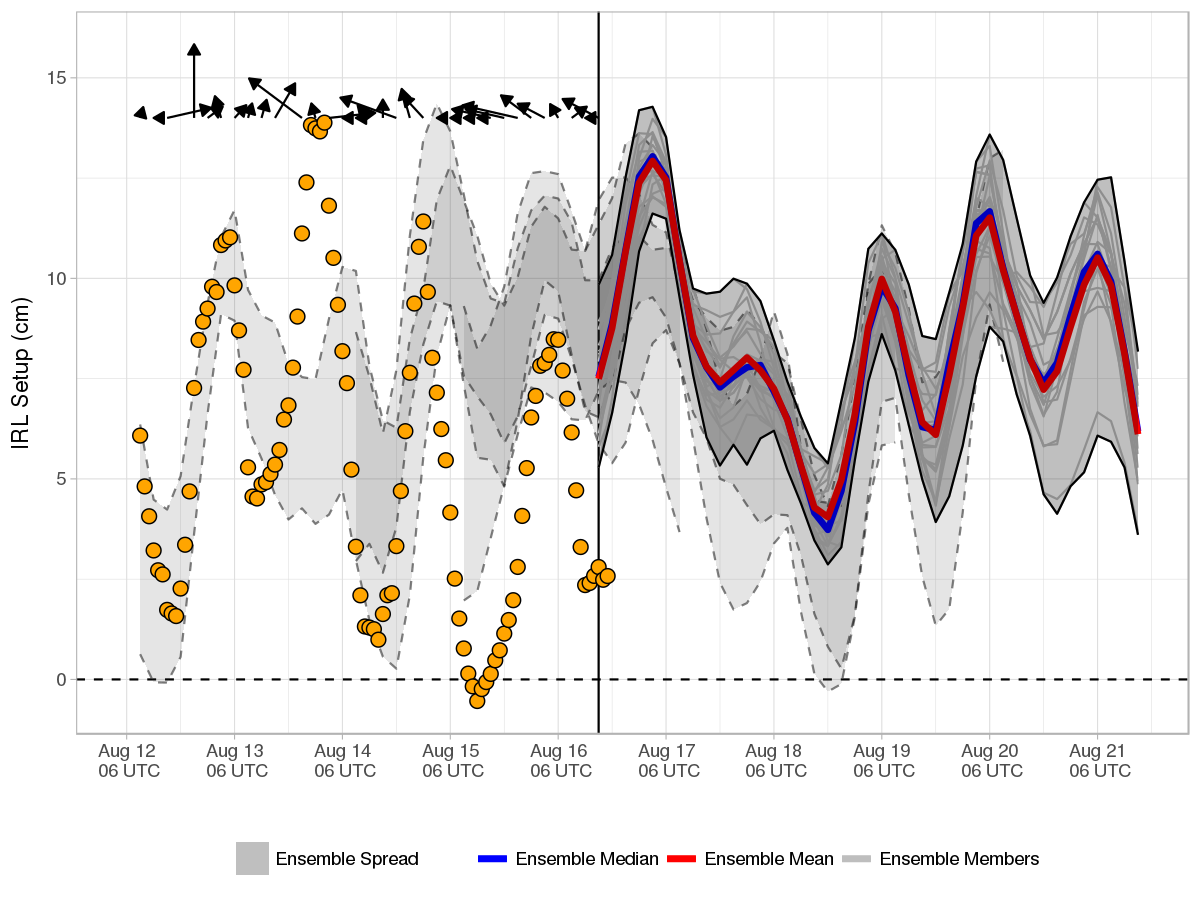
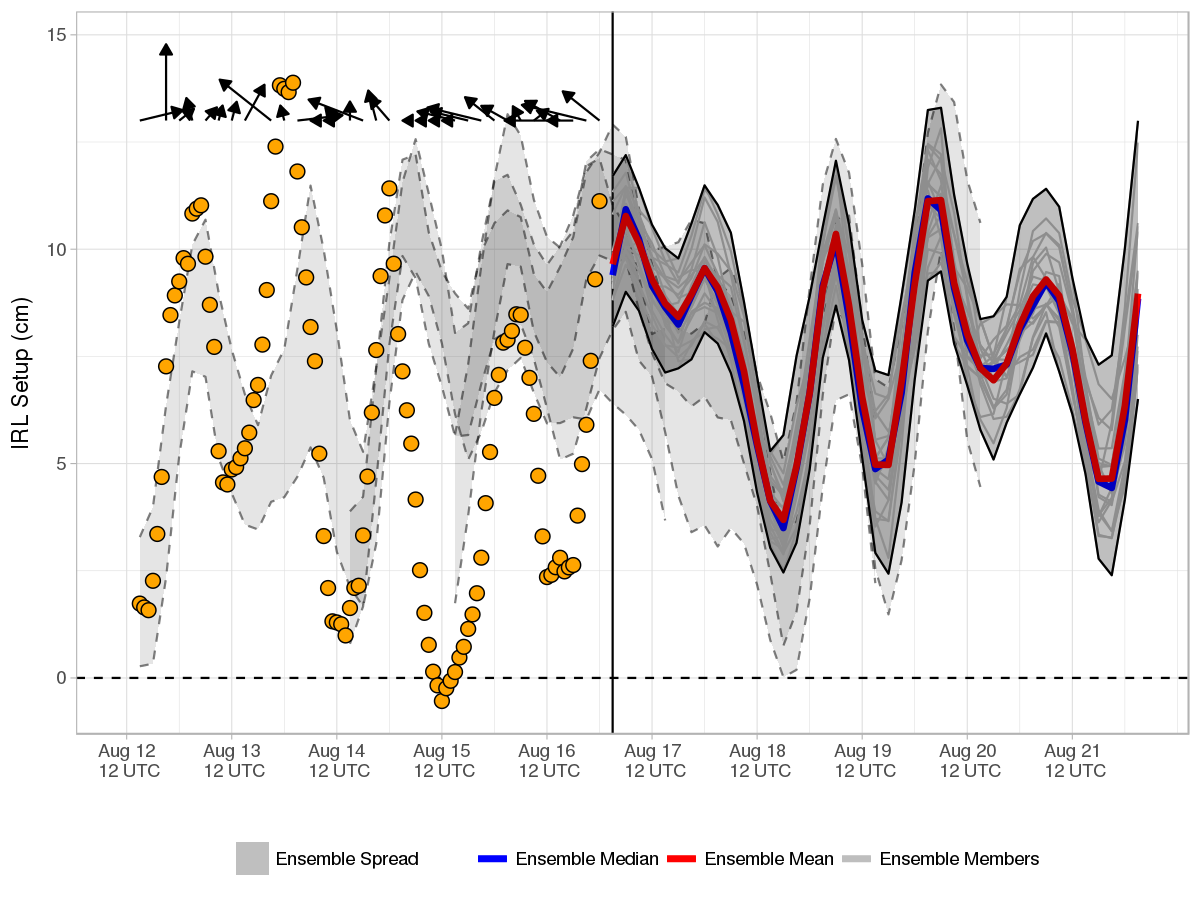
Forecast Update

diff --git a/docs/index.md b/docs/index.md
@@ -1,9 +1,9 @@
-Current Forecast 2018-08-16, Cycle 12 UTC
+Current Forecast 2018-08-16, Cycle 18 UTC
 -----------------------------------------
 
 [![](img/raw_setup.png)](https://fit-winds.github.io/IRLSetup/img/raw_setup.png)
 
-> Forecast valid 2018-08-16 14:14:40.
+> Forecast valid 2018-08-16 20:24:10.
 
 Explanation
 -----------
@@ -23,7 +23,7 @@ Ensemble Forecast System
 cycles. Calculation of the IRL setup is performed shortly after a new
 GEFS cycle is made available on the [data access
 link](http://www.ftp.ncep.noaa.gov/data/nccf/com/gens/prod/). The
-current cycle 2018-08-16 12 UTC 0.5° GEFS mean and median forecasts of
+current cycle 2018-08-16 18 UTC 0.5° GEFS mean and median forecasts of
 setup are represented by the red and blue curves, respectively. Ensemble
 spread from the current and three previous GEFS runs are shaded grey and
 bounded by solid and dashed curves, respectively.
